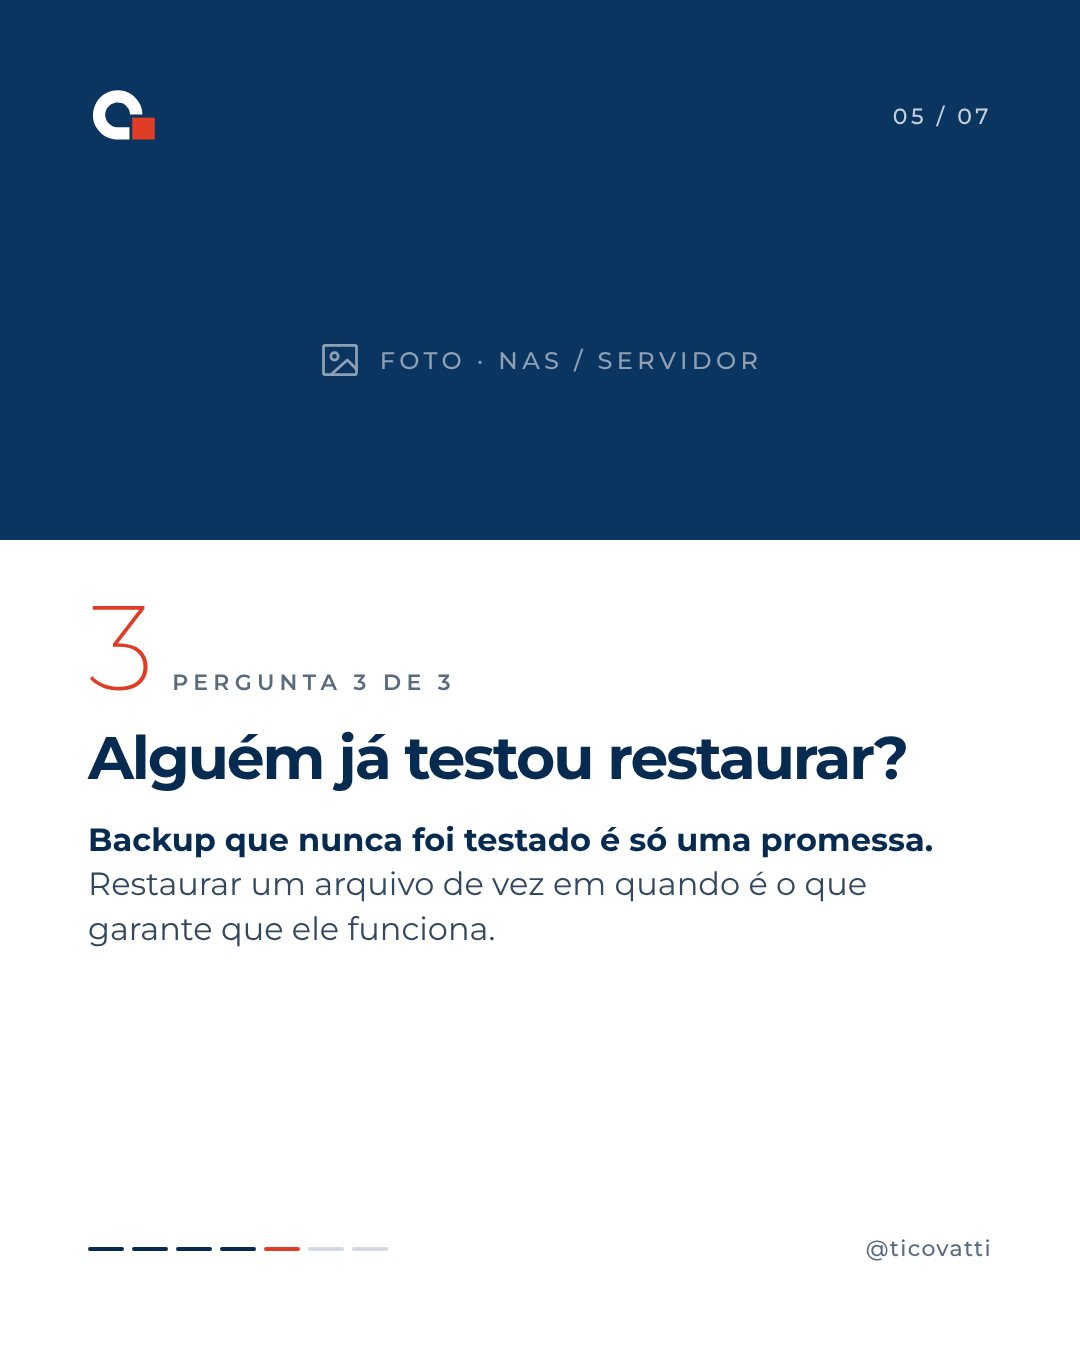
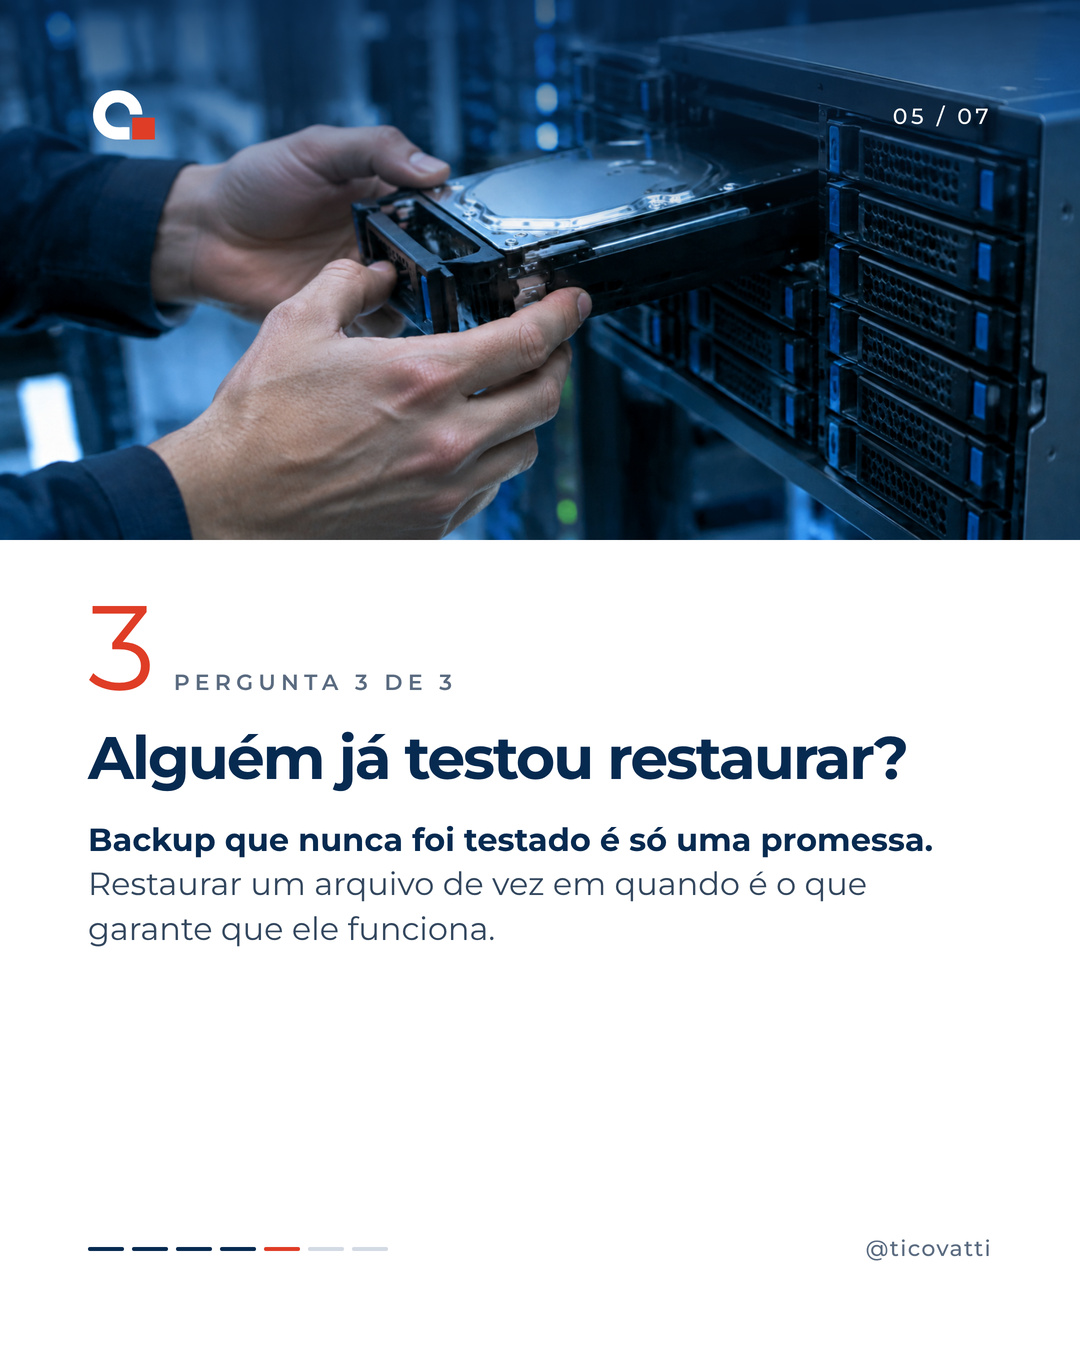
Add files via upload

diff --git a/novembro-2026/index.html b/novembro-2026/index.html
@@ -329,8 +329,7 @@ const CONTEUDO = [
       "p08-5.jpg",
       "p08-6.jpg",
       "p08-7.jpg"
-    ],
-    "pendente": "foto no slide 5"
+    ]
   },
   {
     "taskId": "1dfh60pfynt",
